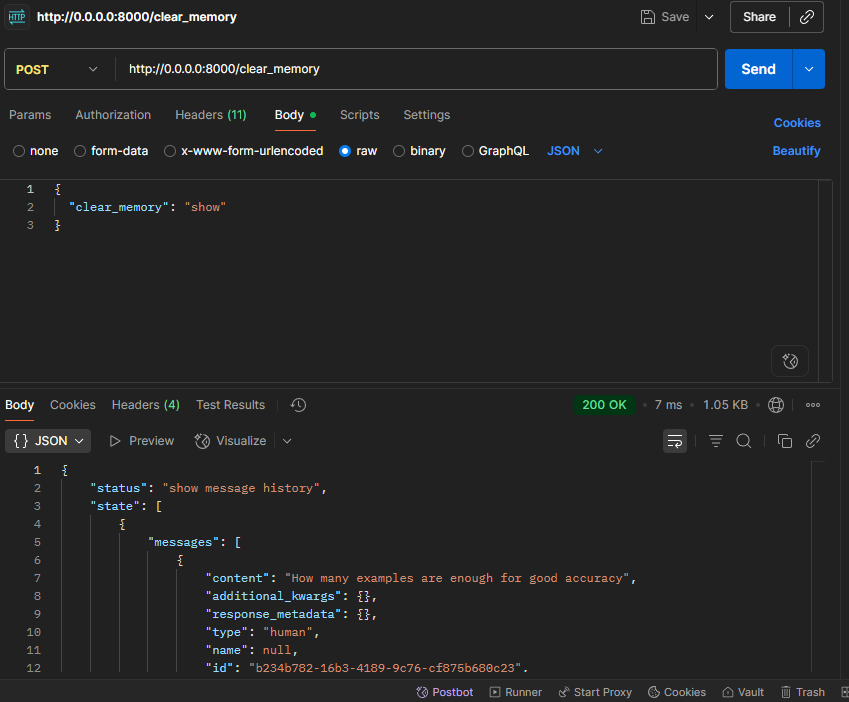
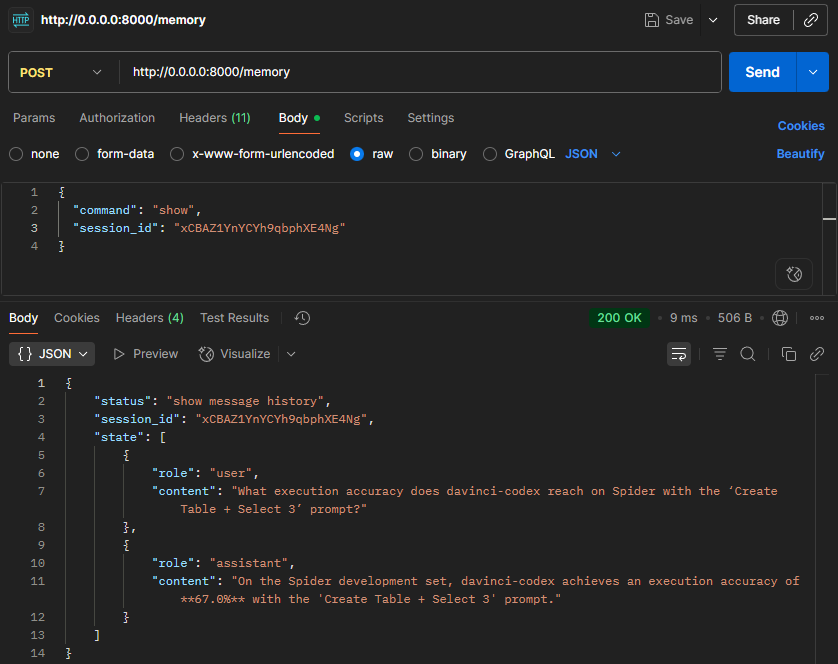
Updated README (final ver.)

diff --git a/README.md b/README.md
@@ -625,7 +625,17 @@ run bash ```python -m app.services.ingest --pdf-dir <your PDFS dir>```
 
 **[Postman]():**
 
-**To communicate with the chatbot:**
+**To create a new session:**
+
+<img src="./imgs_for_readme/postman_new.png" alt="post_chat">
+<p></p>
+
+**To show all sessions:**
+
+<img src="./imgs_for_readme/postman_show.png" alt="post_chat">
+<p></p>
+
+**To communicate with the chatbot:** *(session_id required)*
 
 <img src="./imgs_for_readme/postman_chat.png" alt="post_chat">
 <p></p>
@@ -641,7 +651,25 @@ run bash ```python -m app.services.ingest --pdf-dir <your PDFS dir>```
 <img src="./imgs_for_readme/postman_mem.png" alt="post_show">
 <p></p>
 
-**[cURL]():**
+**To delete a session:**
+
+<img src="./imgs_for_readme/postman_del.png" alt="post_show">
+<p></p>
+
+
+**[cURL](Examples):**
+
+**To create new sessions:**
+
+``` sh
+curl -X 'POST' \
+  'http://localhost:8000/session' \
+  -H 'accept: application/json' \
+  -H 'Content-Type: application/json' \
+  -d '{
+  "command": "new"
+}'
+```
 
 **To communicate with the chatbot:**
 ``` sh
@@ -650,33 +678,24 @@ curl -X 'POST' \
   -H 'accept: application/json' \
   -H 'Content-Type: application/json' \
   -d '{
-  "topic": "Which prompt template gave the highest zero-shot accuracy on Spider in Zhang et al. (2024)?"
+  "topic": "Which prompt template gave the highest zero-shot accuracy on Spider in Zhang et al. (2024)?",
+  "session_id": your_session_id
 }'
 ```
 
 **To clear memory:**
 ``` sh
 curl -X 'POST' \
-  'http://127.0.0.1:8000/clear_memory' \
+  'http://127.0.0.1:8000/memory' \
   -H 'accept: application/json' \
   -H 'Content-Type: application/json' \
   -d '{
-  "clear_memory": "clear"
+  "command": "clear",
+  "session_id": your_session_id
 }'
 ```
 
-**To show messages history:**
-``` sh
-curl -X 'POST' \
-  'http://127.0.0.1:8000/clear_memory' \
-  -H 'accept: application/json' \
-  -H 'Content-Type: application/json' \
-  -d '{
-  "clear_memory": "show"
-}'
-```
-
-**You can also use the built-in docs for FASTAPI by using this url: ```http://127.0.0.1:8000/docs```**
+**You can also use the built-in docs for FASTAPI by using this url: ```http://127.0.0.1:8000/docs```** **(recommended)**
 
 ---
 
